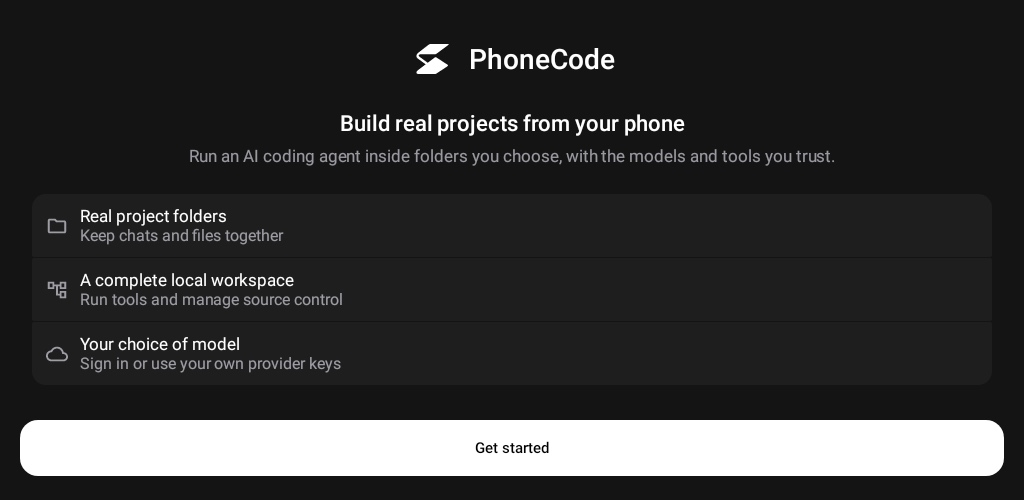
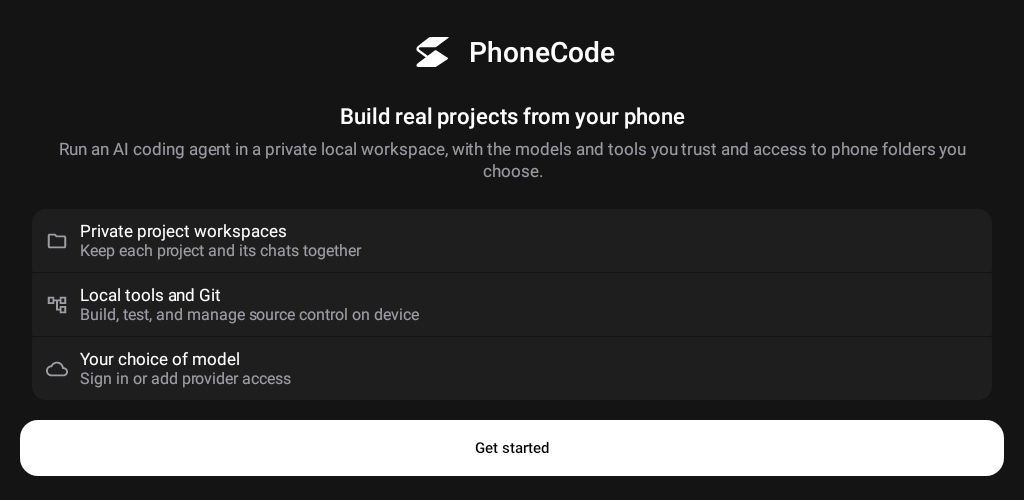
Refresh 0.5.1 release artwork

diff --git a/README.md b/README.md
@@ -28,32 +28,17 @@ the model provider you choose. There is no general-purpose PhoneCode backend, te
 execution service, or required account. The only developer-operated endpoint accepts AI-output
 reports you explicitly submit. API keys live in the Android Keystore.
 
-## Built for real work
-
-<p align="center">
-  <img src=".github/assets/showcase/phonecode-projects.png" width="49%" alt="PhoneCode projects and sessions">
-  <img src=".github/assets/showcase/phonecode-skills.png" width="49%" alt="PhoneCode skills manager">
-</p>
-
-<p align="center"><sub>Folder-backed projects and sessions · Built-in, editable, hot-reloading skills</sub></p>
-
 ## Interface
 
 <p align="center">
   <img src=".github/assets/screens/conversation.png" width="30%" alt="PhoneCode conversation">
   &nbsp;
-  <img src=".github/assets/screens/attachment-menu.png" width="30%" alt="PhoneCode attachment menu">
+  <img src=".github/assets/screens/action-approval.png" width="30%" alt="PhoneCode action approval">
   &nbsp;
-  <img src=".github/assets/screens/project-sessions.png" width="30%" alt="PhoneCode projects drawer">
+  <img src=".github/assets/screens/model-providers.png" width="30%" alt="PhoneCode private model setup">
 </p>
 
-<p align="center">
-  <img src=".github/assets/screens/onboarding.png" width="30%" alt="PhoneCode onboarding">
-  &nbsp;
-  <img src=".github/assets/screens/settings.png" width="30%" alt="PhoneCode settings">
-</p>
-
-<p align="center"><sub>Conversation · Attachments · Projects · Guided setup · Settings</sub></p>
+<p align="center"><sub>Conversation · Explicit action approval · Private model setup</sub></p>
 
 PhoneCode is an independent project inspired by OpenCode and interoperable with it. It is not a
 build of OpenCode.
